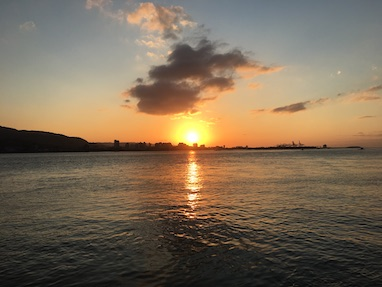
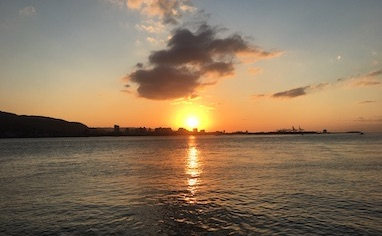
Fine tune scale

diff --git a/templates/controller.html b/templates/controller.html
@@ -6,7 +6,7 @@
 
 <body>
     <center>
-        <div class="w3-card-4 w3-margin" style="width:75%">
+        <div class="w3-card-4 w3-margin" style="width:70%">
             <div class="w3-display-container w3-text-white">
                 <img src="static/sunset.jpg" alt="Lights" style="width:100%">
                 <div class="w3-xlarge w3-display-bottomleft w3-padding">{{result}}&deg; C </div>
